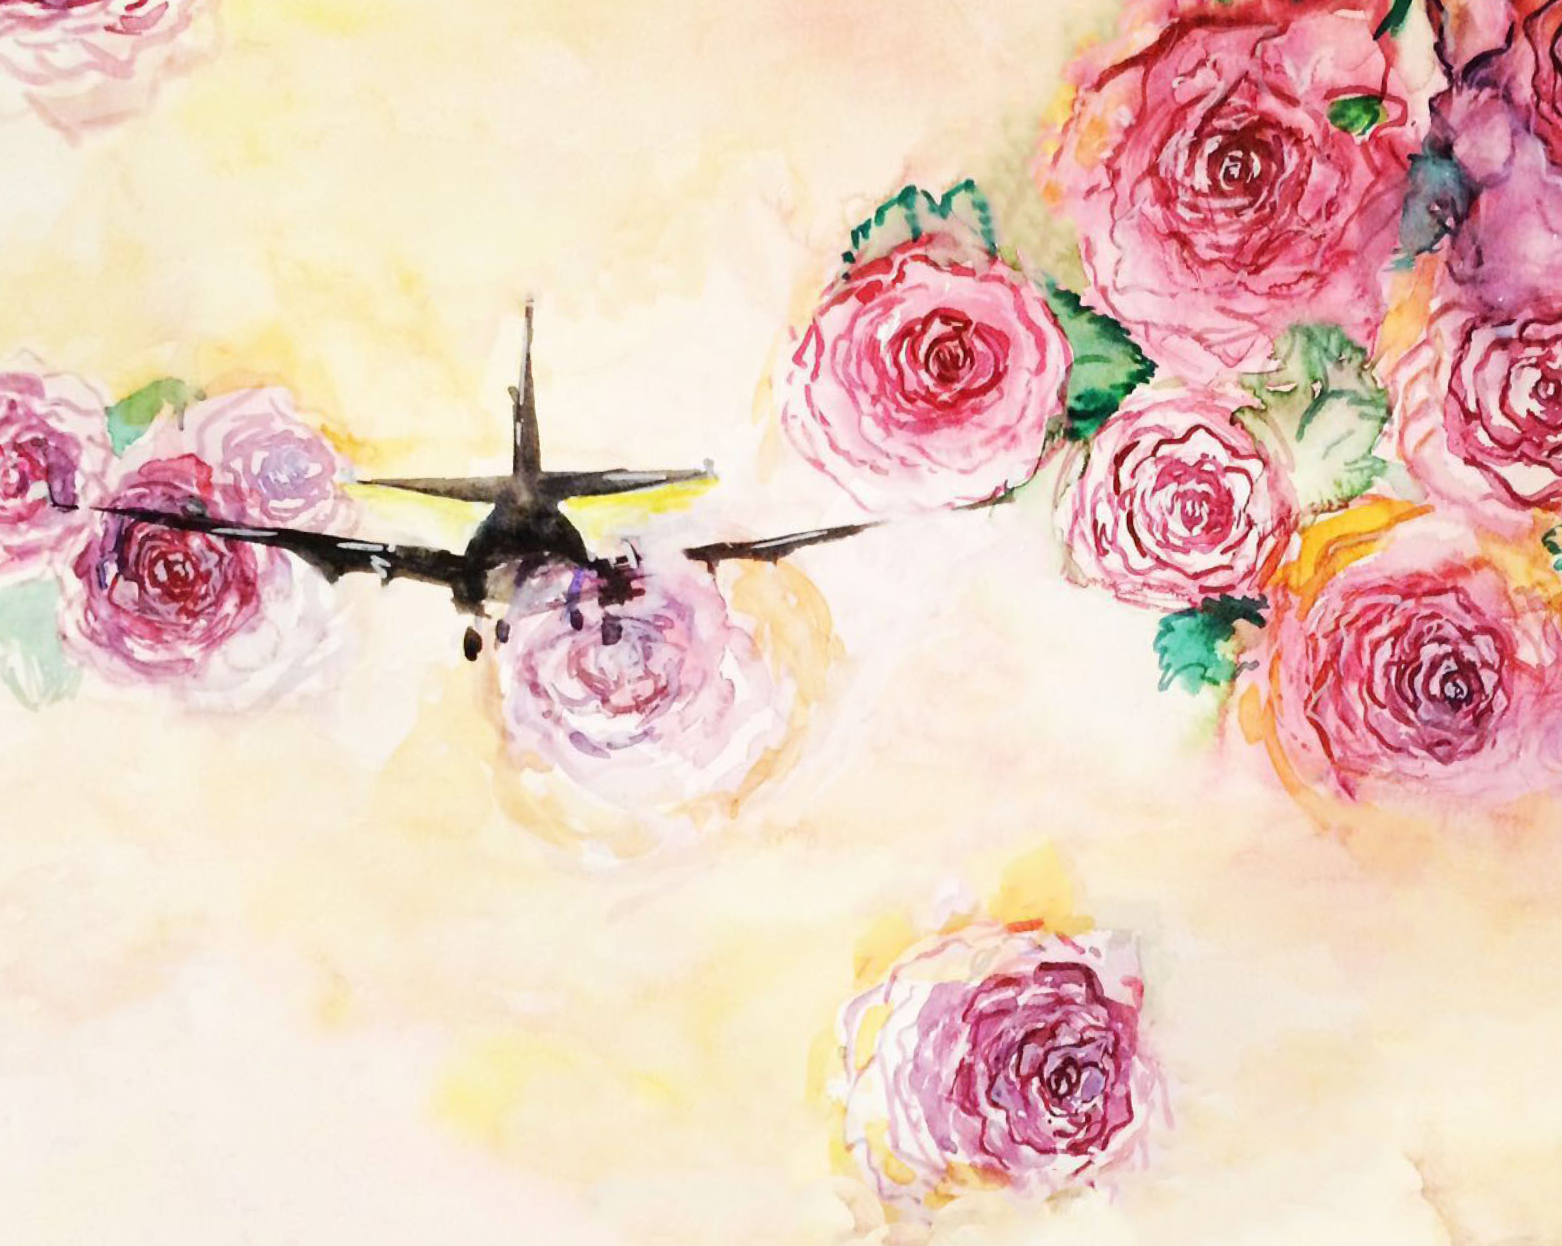
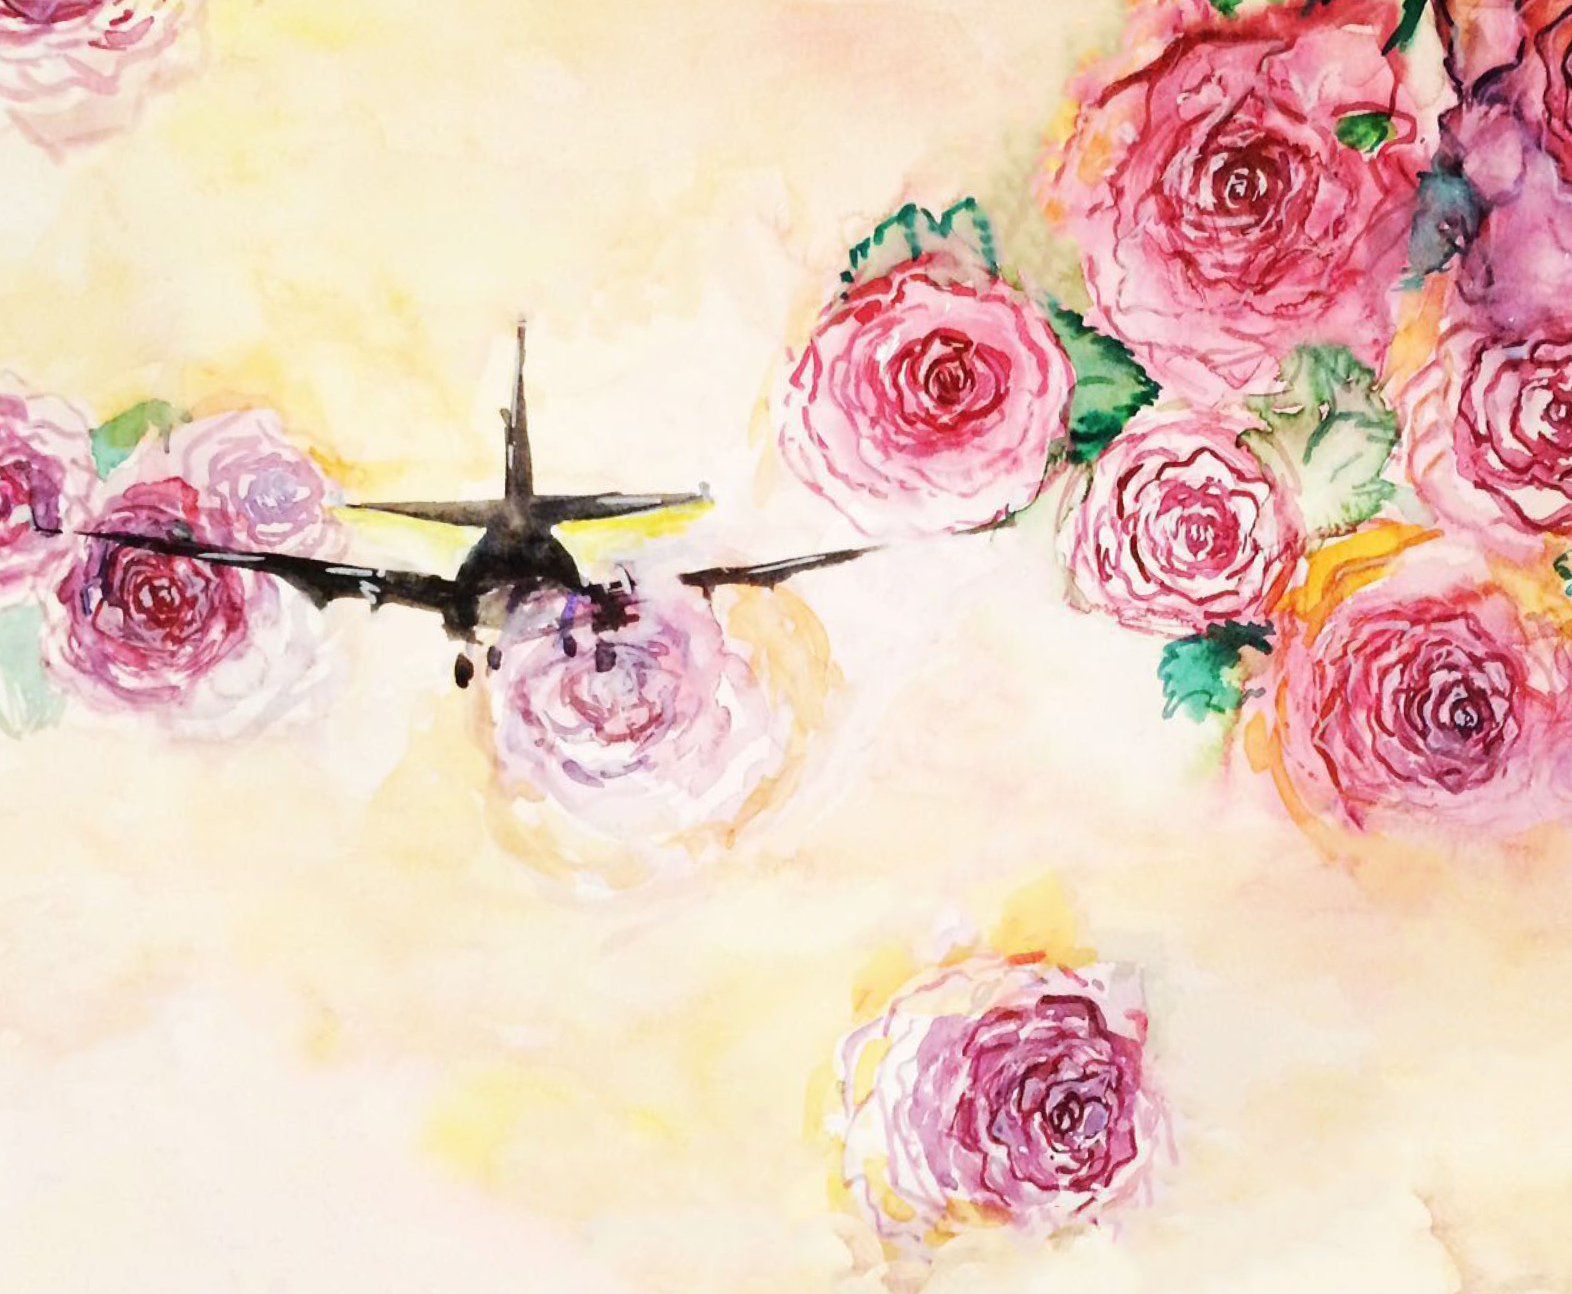
add mobile images for pdp

diff --git a/src/components/get-in-touch/GetInTouch.tsx b/src/components/get-in-touch/GetInTouch.tsx
@@ -53,7 +53,12 @@ const GetInTouch: React.FC = () => {
         <img
           src="/images/get-in-touch.png"
           alt="Get In Touch"
-          className="w-full h-[400px] md:h-[738px] lg:h-full object-cover"
+          className="hidden lg:block w-full h-[400px] md:h-[738px] lg:h-full object-cover"
+        />
+        <img
+          src="/images/mobile-get-in-touch.png"
+          alt="Get In Touch"
+          className="lg:hidden w-full h-[400px] md:h-[738px] object-cover"
         />
       </div>
     </div>
